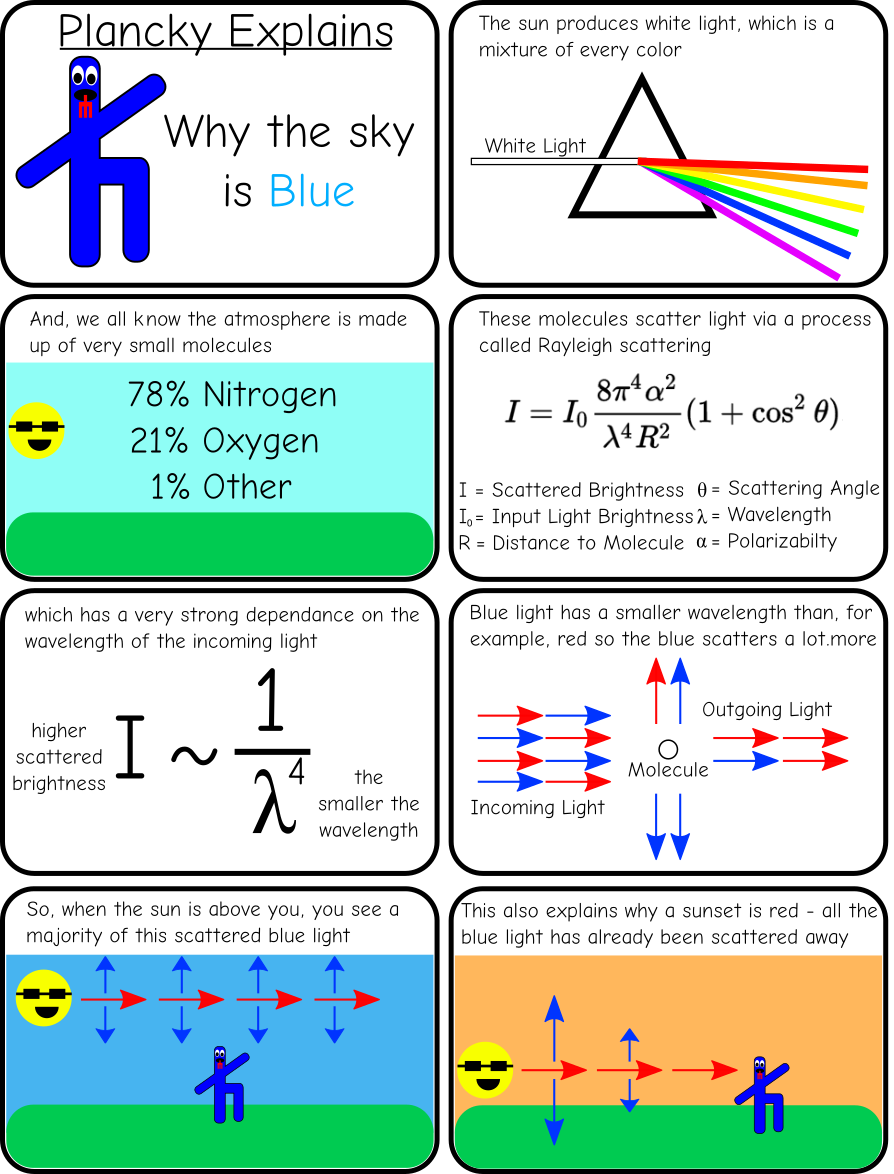
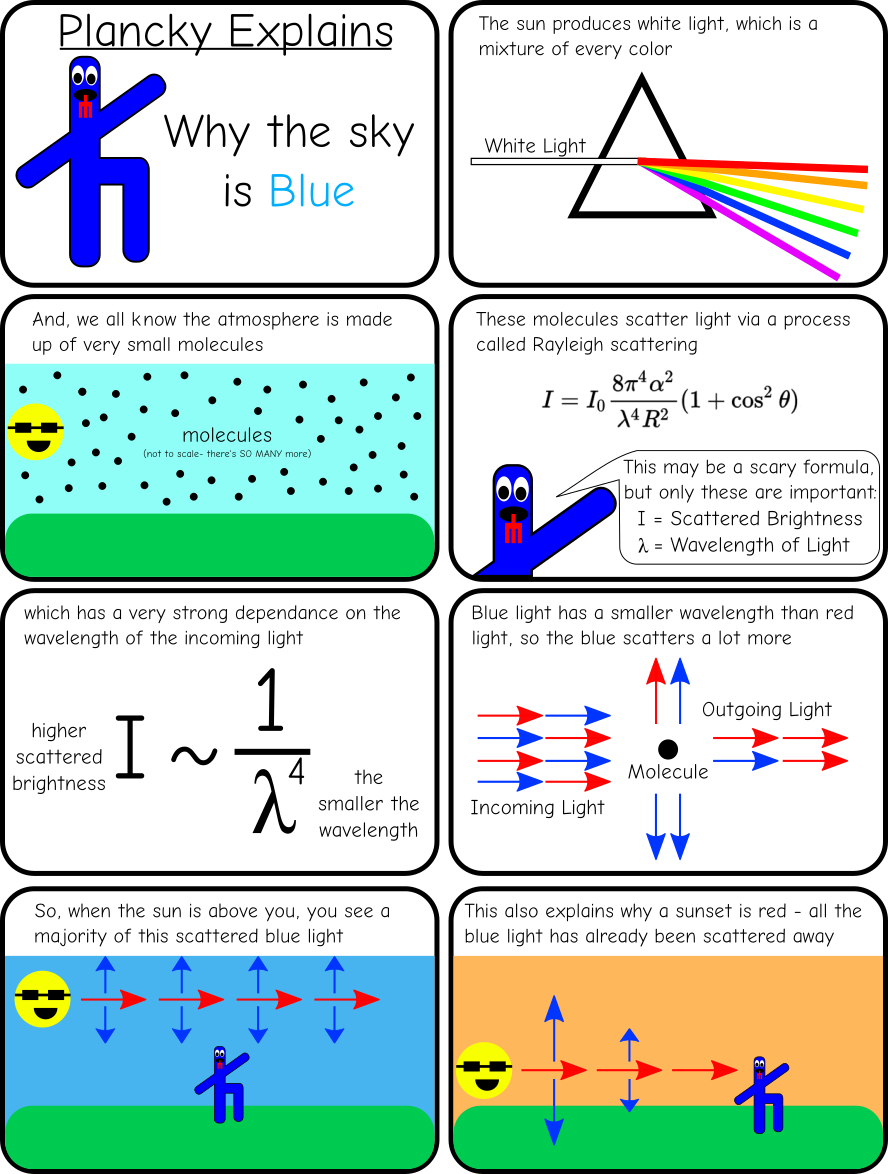
update the why the sky is blue comic

diff --git a/docs/category/plancky.html b/docs/category/plancky.html
@@ -39,7 +39,7 @@
                     <h4 class="header-title text-center">2016</h4>
 
             <p class="article-text">
-                <a href="http://www.randomlyunique.com/plancky/2016/sky_is_blue/">Why the Sky is Blue</a>: Plancky the Planck constant debuts his educational web comic series and explains why the sky is blue!
+                <a href="http://www.randomlyunique.com/plancky/2016/sky_is_blue/">Why the Sky is Blue</a>: Plancky the Planck constant debuts his educational web comic series and explains why the sky is blue! Hint: It's not because the ocean is 'blue'.
             </p>
 
         </div>

diff --git a/content/plancky/2016/sky_is_blue.md b/content/plancky/2016/sky_is_blue.md
@@ -2,6 +2,6 @@ Date: 2016-12-15
 Title: Why the Sky is Blue
 Category: plancky
 Slug: sky_is_blue
-Summary: Plancky the Planck constant debuts his educational web comic series and explains why the sky is blue!   
+Summary: Plancky the Planck constant debuts his educational web comic series and explains why the sky is blue! Hint: It's not because the ocean is 'blue'.  
  
 ![Photo]({attach}/assets/plancky/2016/why_the_sky_is_blue.png){.image_center_style}
